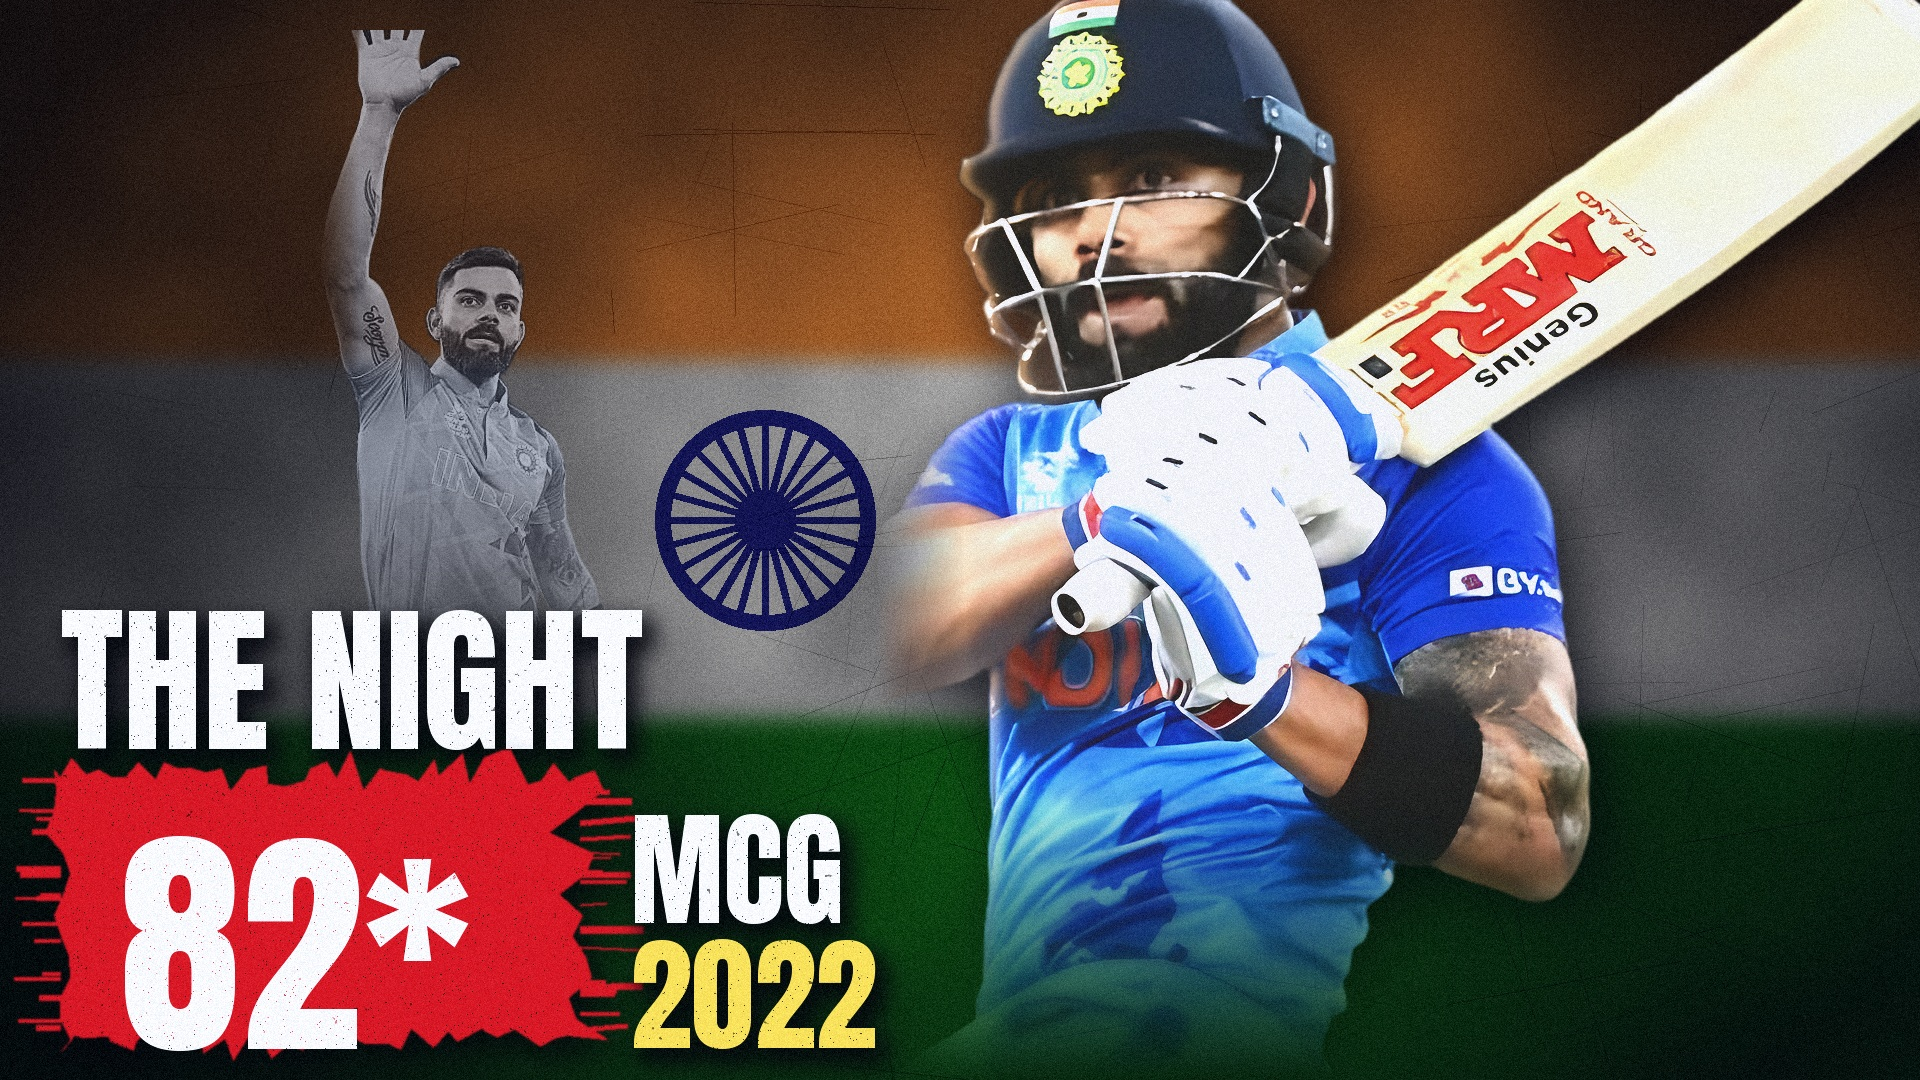
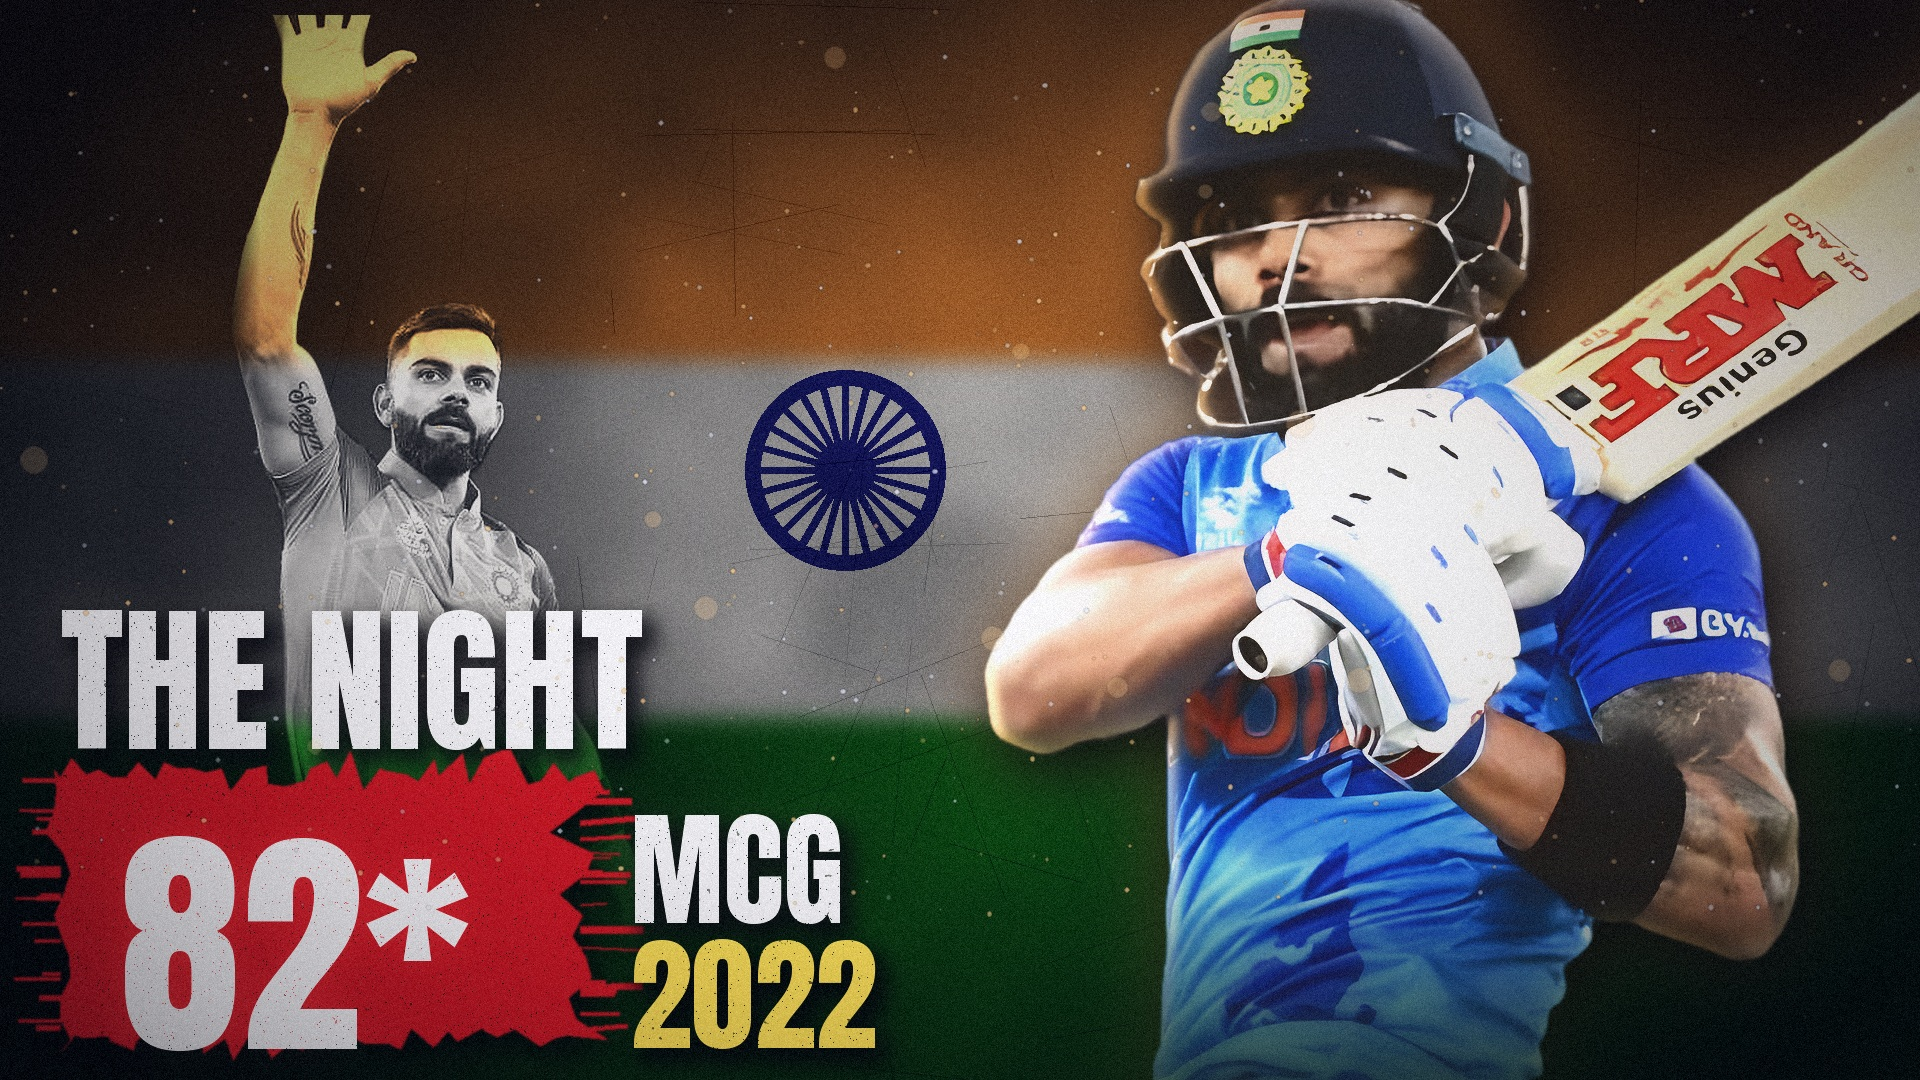
82* v2 thumbnail: bigger players, bat off the side, proper compositing
Waving Virat printed into the flag (luminosity blend in the cloth's colours);
the six lit by the flag (saffron key, green bounce) with a warm halo and light
wrap; dust, highlight bloom and one unifying grade over every layer.

Claude-Session: https://claude.ai/code/session_01SQh72PYSr2UGL5osbLDTTd

diff --git a/virat_82/thumb_82_v2.py b/virat_82/thumb_82_v2.py
@@ -2,44 +2,133 @@
 """1920x1080 thumbnail, v2: "Virat Kohli's 82*: The Night That Became Cricket History | MCG 2022".
 
 Gritty tricolour style (shared with the Ordinary Boy to GOAT v2 thumbnail): textured saffron / white
-(Ashoka Chakra) / green background; Virat waving to the MCG after the win, faded, on the left; the six off
-Haris Rauf huge on the right (helmet, gloves, bat); THE NIGHT / 82* on a red brush block / MCG 2022.
+(Ashoka Chakra) / green background; Virat waving to the MCG after the win, printed into the flag as a
+double exposure on the left; the six off Haris Rauf huge on the right, bat running off the side, lit by
+the flag (saffron key from above, green bounce from below); THE NIGHT / 82* on a red brush block / MCG 2022.
+One finishing pass (dust, highlight bloom, grade, grain) over everything so it reads as a single image.
 
     python3 thumb_82_v2.py  ->  thumb_82_v2.png / .jpg / _small.png
 """
 import os
 import sys
 
-from PIL import Image
+import numpy as np
+from PIL import Image, ImageDraw, ImageFilter
 
 HERE = os.path.dirname(os.path.abspath(__file__))
 sys.path.insert(0, os.path.join(HERE, "..", "virat_story"))
 sys.path.insert(0, os.path.join(HERE, "..", "doc_video", "thumb"))
 import thumb_goat_v2 as g  # noqa: E402  (flag background, duotone, grunge text, brush box)
 import thumb_wc2003 as tw  # noqa: E402
-from thumb_wc2003 import W, fade_bottom, finish, load_cut, place, regrade  # noqa: E402
+from thumb_wc2003 import H, W, arr, fade_bottom, finish, img, load_cut, place, regrade  # noqa: E402
 
 tw.HERE = HERE
+SAFFRON = np.array([255, 160, 60], np.float32)
+GREEN = np.array([40, 170, 70], np.float32)
+rng = np.random.default_rng(82)
+
+
+def double_exposure(base, cut, x, y, strength=0.85):
+    """Print a figure into the flag: its light and shade in the cloth's own colour, so it isn't pasted on."""
+    a = arr(cut)
+    lum = a[..., :3].mean(-1, keepdims=True) / 255
+    alpha = a[..., 3:4] / 255 * strength
+    region = arr(base)[y:y + cut.height, x:x + cut.width, :3]
+    h, w = region.shape[:2]
+    lum, alpha = lum[:h, :w], alpha[:h, :w]
+    # luminosity blend: the figure's light and shade, the flag's own colour underneath it
+    reg_l = region.mean(-1, keepdims=True) + 1
+    hue = 1 + (region / reg_l - 1) * 0.65  # keep the cloth's tint, softened
+    mixed = np.clip(hue * (25 + 230 * lum ** 1.05), 0, 255)
+    out = region * (1 - alpha) + mixed * alpha
+    b = arr(base)
+    b[y:y + h, x:x + w, :3] = out
+    return img(b, "RGBA")
+
+
+def flag_light(cut):
+    """Light a cut-out like it stands in front of the flag: saffron from above, green bounce from below."""
+    a = arr(cut)
+    h = a.shape[0]
+    ys = np.linspace(0, 1, h)[:, None, None]
+    top = np.clip(1 - ys / 0.45, 0, 1) ** 1.5
+    bot = np.clip((ys - 0.55) / 0.45, 0, 1) ** 1.5
+    rgb = a[..., :3]
+    lum = rgb.mean(-1, keepdims=True) / 255
+    rgb = rgb + (SAFFRON - rgb) * top * 0.16 * (0.4 + 0.6 * lum)
+    rgb = rgb * (1 - bot * 0.22) + GREEN * bot * 0.1 * lum
+    a[..., :3] = rgb
+    return img(a, "RGBA")
+
+
+def edge_glow(base, cut, x, y, color, spread=36, k=0.5):
+    """Soft halo of flag light behind a figure (separates it from the background without an outline)."""
+    p = 80
+    al = Image.new("L", (cut.width + 2 * p, cut.height + 2 * p), 0)
+    al.paste(cut.getchannel("A"), (p, p))
+    al = al.filter(ImageFilter.GaussianBlur(spread))
+    layer = Image.new("RGBA", al.size, tuple(int(c) for c in color) + (0,))
+    layer.putalpha(al.point(lambda v: int(v * k)))
+    base.alpha_composite(layer, (x - p, y - p))
+
+
+def dust(base, n=420):
+    """Fine floating dust / embers across the whole frame, a little denser in the light."""
+    layer = Image.new("RGBA", (W, H), (0, 0, 0, 0))
+    d = ImageDraw.Draw(layer)
+    for _ in range(n):
+        x, y = rng.uniform(0, W), rng.uniform(0, H * 0.85)
+        r = rng.uniform(0.8, 2.6)
+        warm = rng.random() < 0.6
+        col = (255, 205, 140) if warm else (235, 240, 255)
+        d.ellipse((x - r, y - r, x + r, y + r), fill=col + (int(rng.uniform(70, 200)),))
+    for _ in range(14):  # a few bigger out-of-focus specks
+        x, y, r = rng.uniform(0, W), rng.uniform(0, H * 0.7), rng.uniform(6, 14)
+        d.ellipse((x - r, y - r, x + r, y + r), fill=(255, 210, 150, 60))
+    base.alpha_composite(layer.filter(ImageFilter.GaussianBlur(0.7)))
+
+
+def bloom(base, threshold=225, k=0.22):
+    a = arr(base)
+    lum = a[..., :3].mean(-1)
+    hi = img(np.clip((lum - threshold) * 4, 0, 255), "L").filter(ImageFilter.GaussianBlur(18))
+    a[..., :3] += (arr(hi) / 255)[..., None] * np.array([255, 225, 180], np.float32) * k
+    return img(np.clip(a, 0, 255), "RGBA")
+
+
+def unify(base):
+    """One grade over all layers: gentle vignette, warm highlights, slightly cool shadows."""
+    a = arr(base)
+    rgb = a[..., :3]
+    lum = rgb.mean(-1, keepdims=True) / 255
+    rgb = rgb + (np.array([255, 200, 140], np.float32) - rgb) * (lum ** 2) * 0.08
+    rgb = rgb + (np.array([10, 18, 30], np.float32) - rgb) * ((1 - lum) ** 3) * 0.12
+    yy, xx = np.mgrid[0:H, 0:W].astype(np.float32)
+    v = 1 - 0.45 * np.clip(((xx - W / 2) / (W * 0.62)) ** 2 + ((yy - H / 2) / (H * 0.72)) ** 2, 0, 1)
+    a[..., :3] = rgb * v[..., None]
+    return img(np.clip(a, 0, 255), "RGBA")
 
 
 def main():
-    g.CHAKRA = (765, 520, 110)  # in the gap between the two Viratas
+    g.CHAKRA = (845, 470, 100)  # in the gap between the two Viratas
     base = g.flag_background()
 
-    # LEFT - after the win: Virat waving to the MCG, faded, centred over the headline
-    wv = load_cut("cut_wave.png", 760)
-    wv = g.duotone(regrade(wv, contrast=1.2), opacity=0.7)
-    wv = g.edge_fade(fade_bottom(wv, 430, 700), left=40, right=40)
-    base.alpha_composite(wv, (500 - wv.width // 2, 30))
+    # LEFT - after the win: Virat waving to the MCG, printed into the flag
+    wv = load_cut("cut_wave.png", 1010)
+    wv = regrade(wv, color=0.0, contrast=1.25, bright=1.05, sharpen=(1.0, 60, 1))
+    wv = g.edge_fade(fade_bottom(wv, 520, 940), left=30, right=30)
+    base = double_exposure(base, wv, 470 - wv.width // 2, 15)
 
-    # RIGHT - the six off Rauf: helmet, gloves and bat, huge
-    sx = Image.open(os.path.join(HERE, "cut_six.png")).convert("RGBA").crop((900, 0, 2824, 2000))
-    s = 1150 / sx.height
-    sx = sx.resize((int(sx.width * s), 1150), Image.LANCZOS)
-    sx = regrade(sx, color=1.1, contrast=1.15, bright=1.04, sharpen=(1.0, 60, 1))
-    sx = tw.directional_light(sx, "left", (255, 210, 160), 0.35)
-    sx = g.edge_fade(fade_bottom(sx, 820, 1120), left=90)
-    place(base, sx, W - sx.width + 60, -40, wrap=0.3, rim_color=(255, 190, 120), rim_side=-1, rim_k=0.45, shadow=0.8)
+    # RIGHT - the six off Rauf, huge; bat runs off the right side
+    sx = Image.open(os.path.join(HERE, "cut_six.png")).convert("RGBA").crop((700, 0, 2824, 2150))
+    s = 1300 / sx.height
+    sx = sx.resize((int(sx.width * s), 1300), Image.LANCZOS)
+    sx = regrade(sx, color=1.1, contrast=1.14, bright=1.04, sharpen=(1.0, 60, 1))
+    sx = flag_light(sx)
+    sx = fade_bottom(sx, 900, 1260)
+    sxx, sxy = 925, -30
+    edge_glow(base, sx, sxx, sxy, (255, 170, 80), spread=40, k=0.45)
+    place(base, sx, sxx, sxy, wrap=0.5, rim_color=(255, 190, 110), rim_side=-1, rim_k=0.5, shadow=0.85)
 
     # text block, bottom left
     g.grunge_text(base, "THE NIGHT", 60, 560, 160)
@@ -47,6 +136,11 @@ def main():
     g.grunge_text(base, "82*", 120, 760, 245, shadow=False)
     g.grunge_text(base, "MCG", 630, 775, 125)
     g.grunge_text(base, "2022", 630, 900, 125, fill=(255, 222, 89))
+
+    # finishing pass over everything
+    dust(base)
+    base = bloom(base)
+    base = unify(base)
     finish(base, "thumb_82_v2")
 
 
